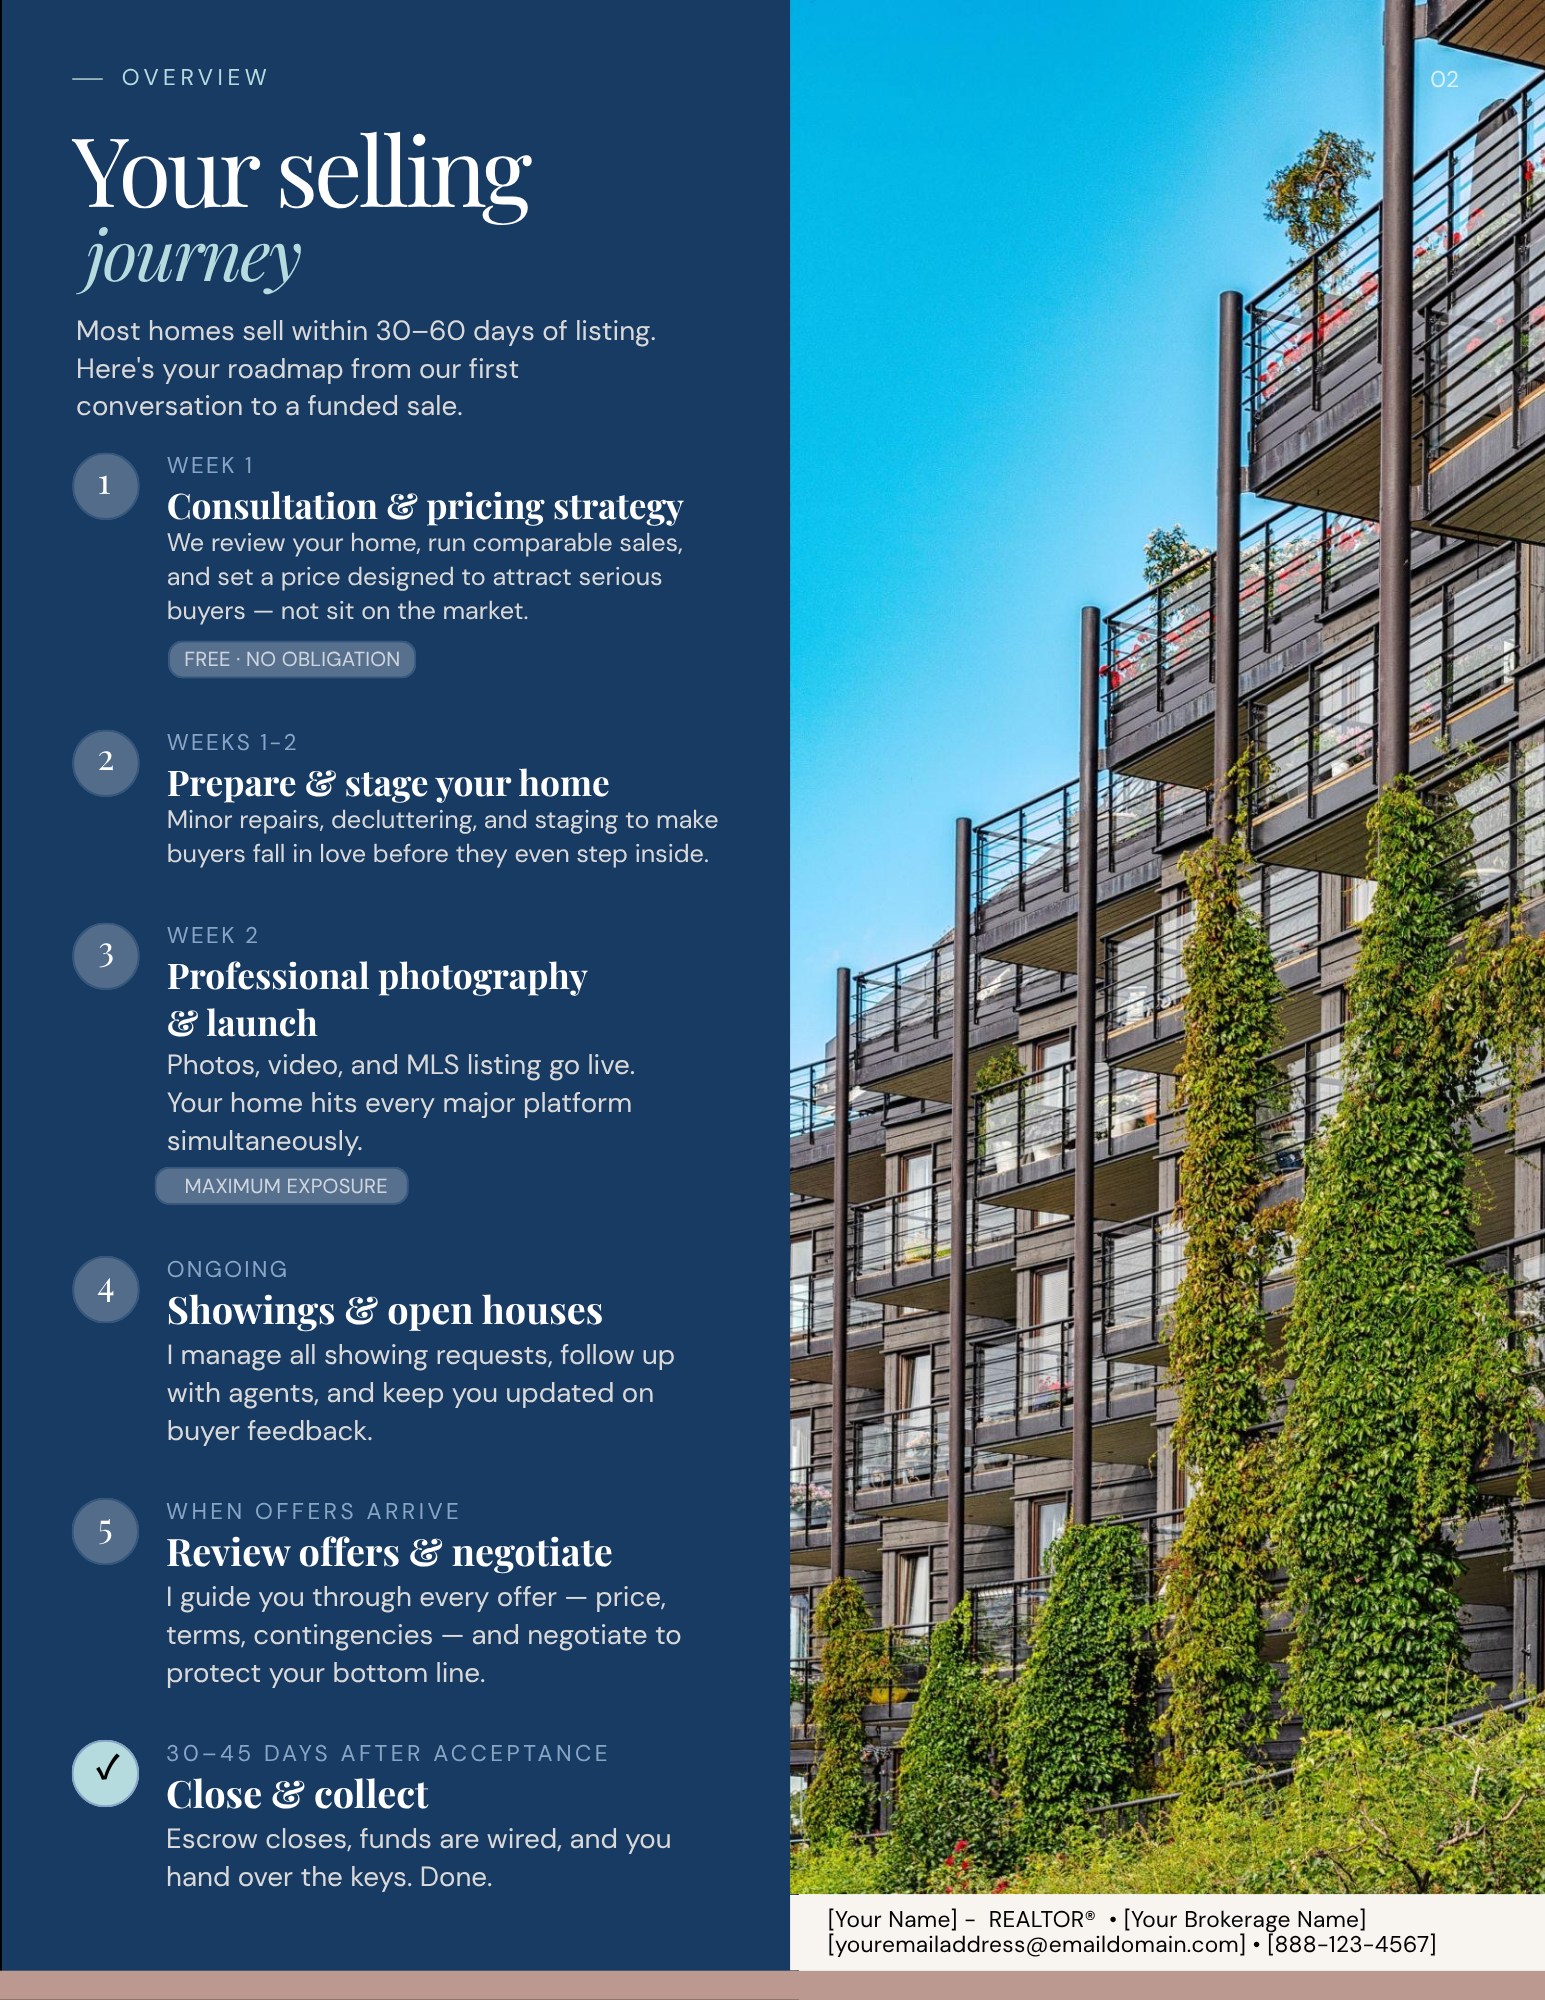
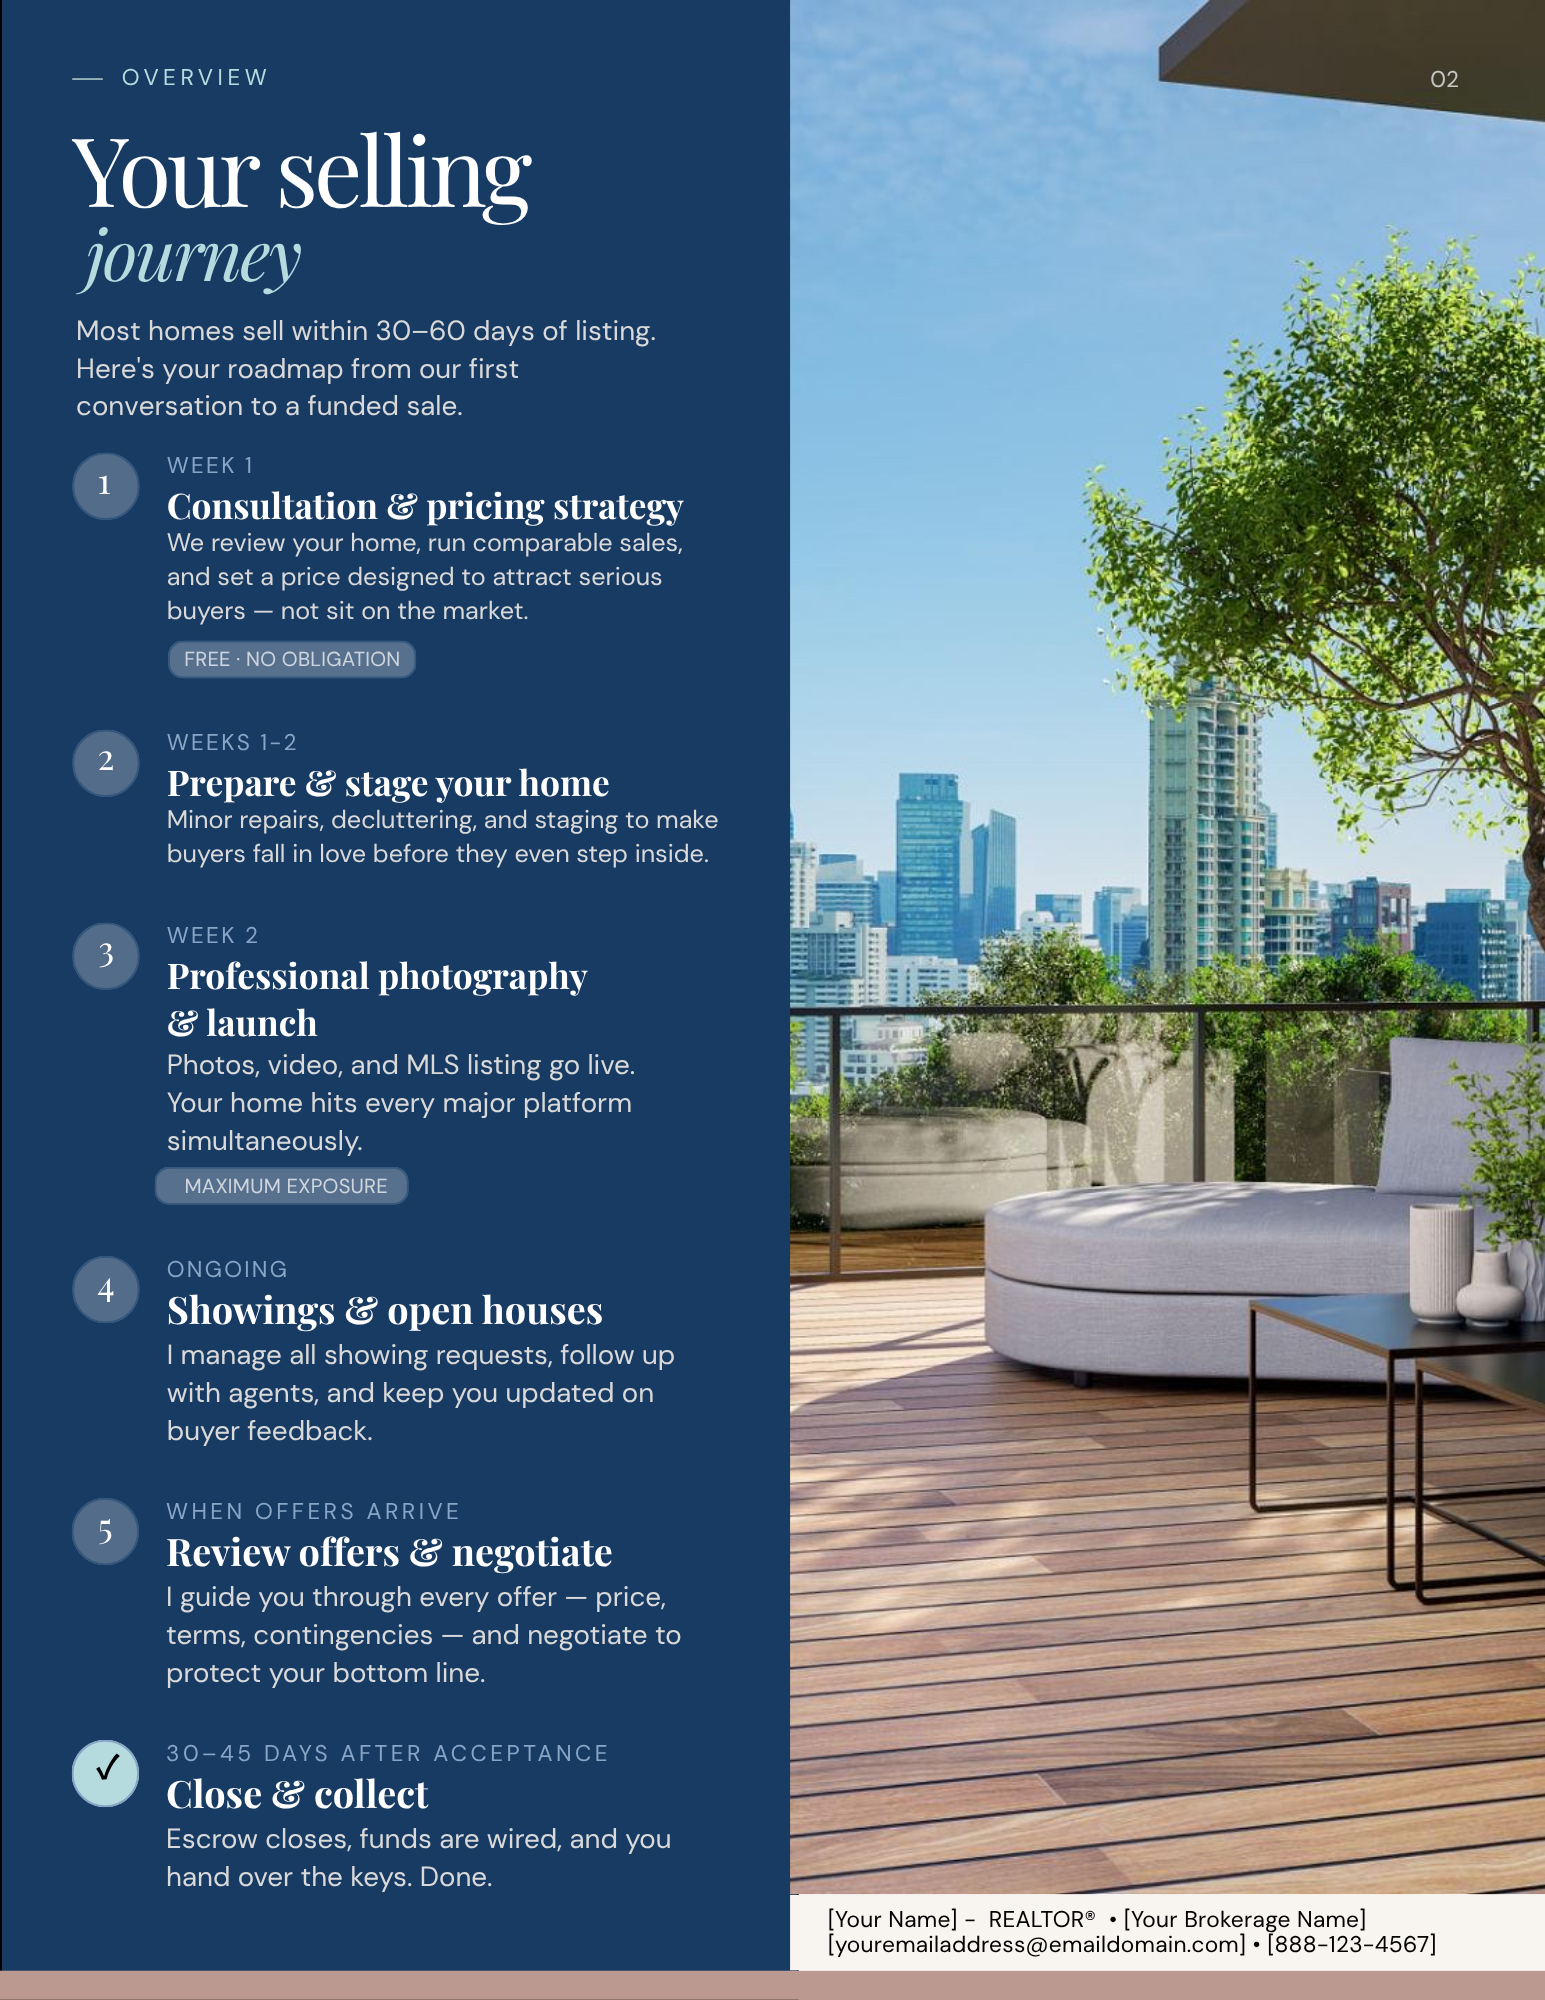
updated urban images, fixed links

diff --git a/index.html b/index.html
@@ -121,7 +121,7 @@
         "price": "27.00",
         "priceCurrency": "USD",
         "availability": "https://schema.org/InStock",
-        "url": "https://www.etsy.com/listing/4486191460"
+        "url": "https://www.etsy.com/listing/4487735673"
       }
     },
     {
@@ -135,7 +135,7 @@
         "price": "27.00",
         "priceCurrency": "USD",
         "availability": "https://schema.org/InStock",
-        "url": "https://www.etsy.com/listing/4486205760"
+        "url": "https://www.etsy.com/listing/4487742072"
       }
     },
     {
@@ -162,8 +162,7 @@
         "@type": "Offer",
         "price": "44.00",
         "priceCurrency": "USD",
-        "availability": "https://schema.org/InStock",
-        "url": "https://www.etsy.com/listing/4486209867"
+        "availability": "https://schema.org/PreOrder"
       }
     }
   ]
@@ -819,7 +818,7 @@ footer{background:#0a1220;padding:28px 56px;display:flex;justify-content:space-b
                 <span class="shop-badge">UNDER 1 HOUR</span>
               </div>
               <a
-                href="https://www.etsy.com/listing/4486191460/buyer-guide-canva-template-for-real"
+                href="https://www.etsy.com/listing/4486191460/real-estate-buyer-guide-canva-template"
                 class="btn-navy" target="_blank" rel="noopener"
                 aria-label="Get the Coastal Buyer's Guide on Etsy"
                 onclick="window.dataLayer=window.dataLayer||[];window.dataLayer.push({event:'etsy_click',product_name:'coastal_buyer_guide',listing_id:'4486191460'});">GET
@@ -870,7 +869,7 @@ footer{background:#0a1220;padding:28px 56px;display:flex;justify-content:space-b
                 <span class="shop-badge">SAVE $10</span>
               </div>
               <a
-                href="https://www.etsy.com/listing/4486209867/real-estate-agent-canva-bundle-buyer"
+                href="https://www.etsy.com/listing/4486209867/real-estate-agent-canva-bundle-coastal"
                 class="btn-navy" target="_blank" rel="noopener"
                 aria-label="Get the Coastal Bundle on Etsy"
                 onclick="window.dataLayer=window.dataLayer||[];window.dataLayer.push({event:'etsy_click',product_name:'coastal_bundle',listing_id:'4486209867'});">GET
@@ -894,10 +893,10 @@ footer{background:#0a1220;padding:28px 56px;display:flex;justify-content:space-b
                 <span class="shop-badge">UNDER 1 HOUR</span>
               </div>
               <a
-                href="https://www.etsy.com/listing/4486205760/seller-guide-canva-template-for-real"
+                href="https://www.etsy.com/listing/4487742072/real-estate-seller-guide-canva-template"
                 class="btn-navy" target="_blank" rel="noopener"
                 aria-label="Get the Urban Seller's Guide on Etsy"
-                onclick="window.dataLayer=window.dataLayer||[];window.dataLayer.push({event:'etsy_click',product_name:'urban_seller_guide',listing_id:'4486205760'});">GET
+                onclick="window.dataLayer=window.dataLayer||[];window.dataLayer.push({event:'etsy_click',product_name:'urban_seller_guide',listing_id:'4487742072'});">GET
                 TEMPLATE →</a>
             </div>
           </article>
@@ -918,10 +917,10 @@ footer{background:#0a1220;padding:28px 56px;display:flex;justify-content:space-b
                 <span class="shop-badge">UNDER 1 HOUR</span>
               </div>
               <a
-                href="https://www.etsy.com/listing/4486191460/buyer-guide-canva-template-for-real"
+                href="https://www.etsy.com/listing/4487735673/real-estate-buyer-guide-canva-template"
                 class="btn-navy" target="_blank" rel="noopener"
                 aria-label="Get the Urban Buyer's Guide on Etsy"
-                onclick="window.dataLayer=window.dataLayer||[];window.dataLayer.push({event:'etsy_click',product_name:'urban_buyer_guide',listing_id:'4486191460'});">GET
+                onclick="window.dataLayer=window.dataLayer||[];window.dataLayer.push({event:'etsy_click',product_name:'urban_buyer_guide',listing_id:'4487735673'});">GET
                 TEMPLATE →</a>
             </div>
           </article>
@@ -966,12 +965,9 @@ footer{background:#0a1220;padding:28px 56px;display:flex;justify-content:space-b
                 <span class="shop-badge">INSTANT DOWNLOAD</span>
                 <span class="shop-badge">SAVE $10</span>
               </div>
-              <a
-                href="https://www.etsy.com/listing/4486209867/real-estate-agent-canva-bundle-buyer"
-                class="btn-navy" target="_blank" rel="noopener"
-                aria-label="Get the Urban Bundle on Etsy"
-                onclick="window.dataLayer=window.dataLayer||[];window.dataLayer.push({event:'etsy_click',product_name:'urban_bundle',listing_id:'4486209867'});">GET
-                BUNDLE →</a>
+              <a href="#" class="btn-navy"
+                aria-label="Urban Bundle — coming soon" onclick="return false;"
+                style="opacity:0.5;cursor:default;">COMING SOON</a>
             </div>
           </article>
 

diff --git a/canva-links.md b/canva-links.md
@@ -1,0 +1,26 @@
+https://canva.link/kc30t32vmwhvyrm  buyers coastal
+
+https://canva.link/a9n510eaq86fmj6 sellers coastal
+
+https://canva.link/gbbeujq8vagufnk sellers urban
+
+https://canva.link/wiko28cv3174xmi buyers urban
+
+
+urban buyers
+https://www.etsy.com/listing/4487735673/real-estate-buyer-guide-canva-template
+
+urban sellers
+https://www.etsy.com/listing/4487742072/real-estate-seller-guide-canva-template
+
+coastal buyers
+https://www.etsy.com/listing/4486191460/real-estate-buyer-guide-canva-template
+
+coastal sellers
+https://www.etsy.com/listing/4486205760/seller-guide-canva-template-for-real
+
+bundle coastal 
+https://www.etsy.com/listing/4486209867/real-estate-agent-canva-bundle-coastal
+
+bundle urban 
+don't link yet
